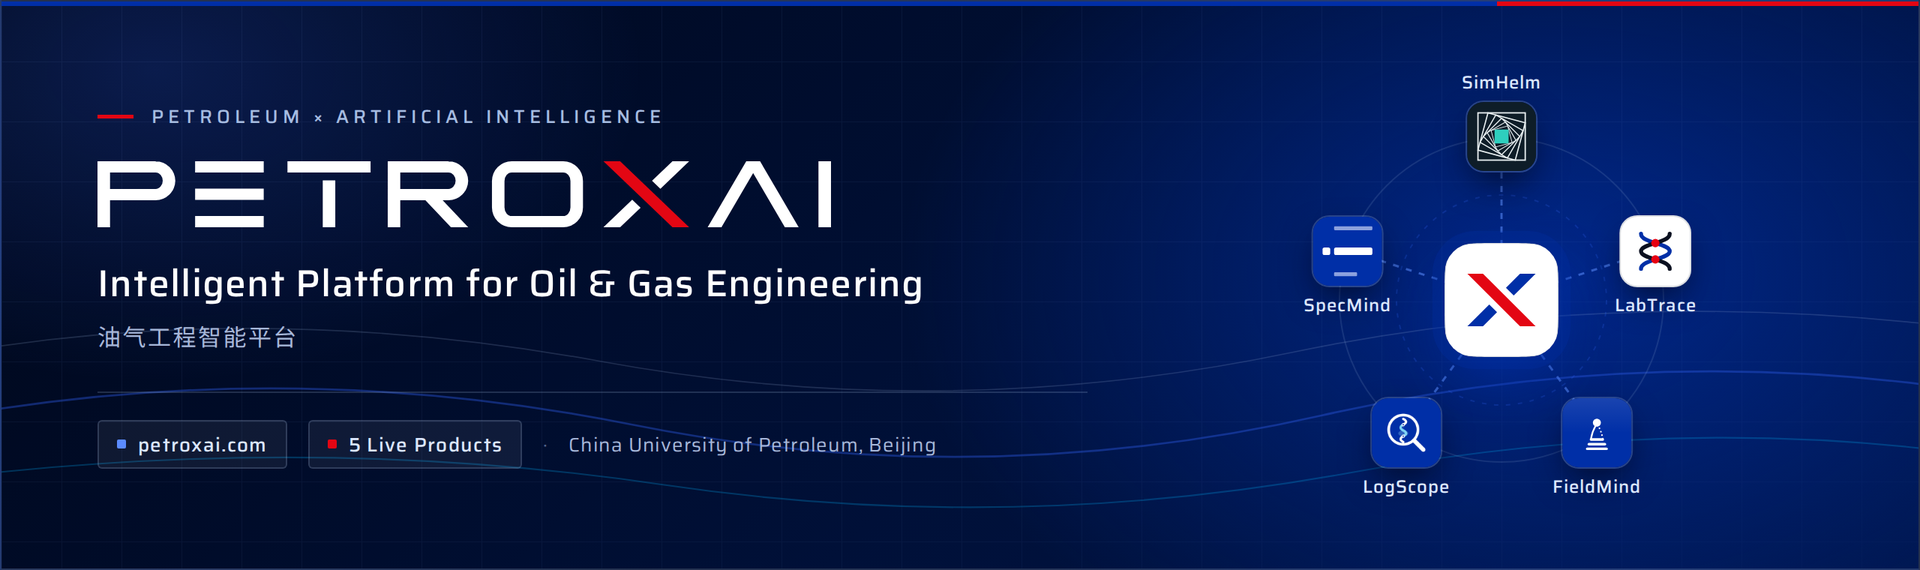
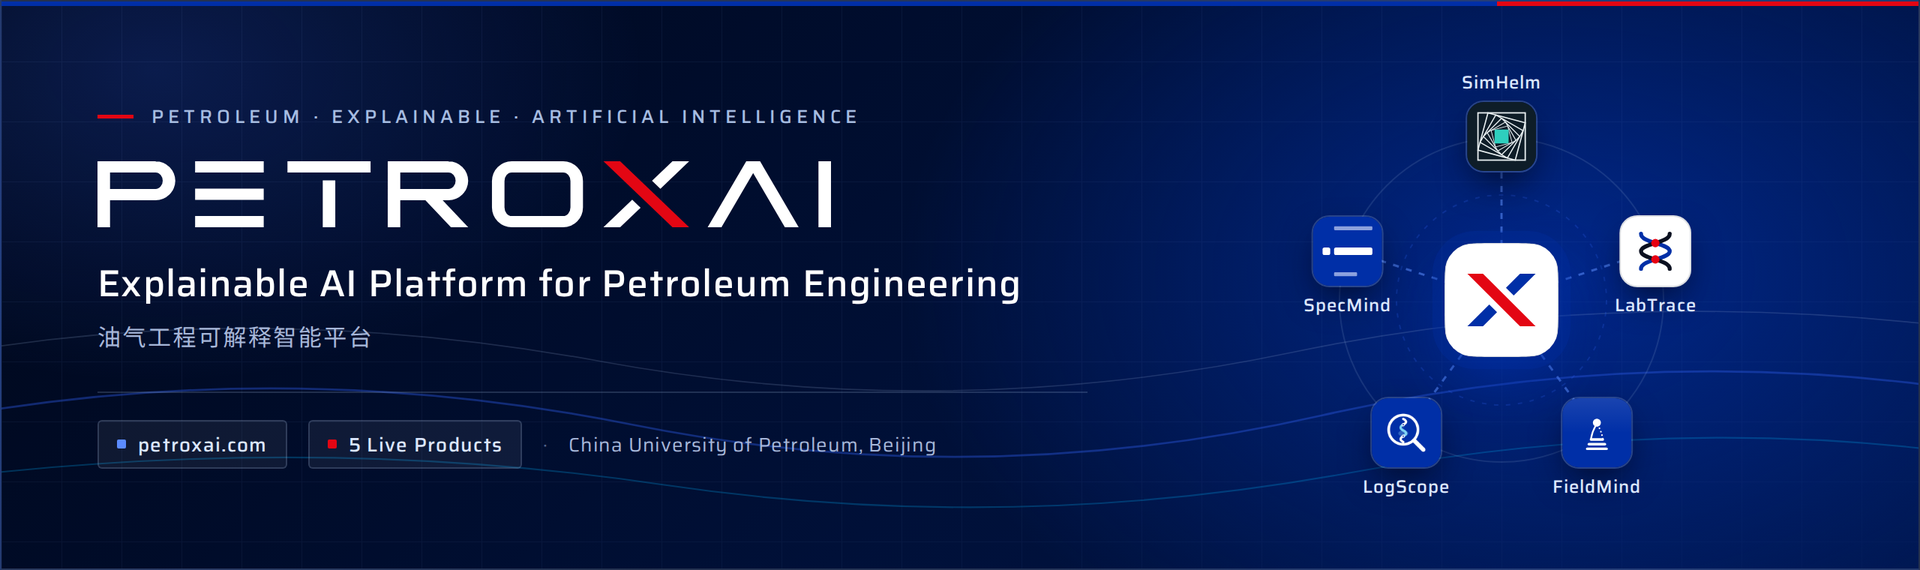
将组织主页定位更新为「油气工程可解释智能平台」
- 更新 profile/README.md 定位为 Explainable AI platform for petroleum engineering · 油气工程可解释智能平台
- 更新 scripts/render_assets.py 标眉与副标题并重绘深/浅双色 Hero Banner
- 验证：重新渲染并目视核对 banner-dark.png 与 banner-light.png

Changed region(s): [[0.0312, 0.4772, 0.5312, 0.5368], [0.1562, 0.1789, 0.4375, 0.2386], [0.0938, 0.5667, 0.1875, 0.6263]]

diff --git a/scripts/render_assets.py b/scripts/render_assets.py
@@ -438,11 +438,11 @@ html, body {{
       <div class="left">
         <div class="kicker">
           <span class="kicker-bar"></span>
-          <span>PETROLEUM × ARTIFICIAL INTELLIGENCE</span>
+          <span>PETROLEUM · EXPLAINABLE · ARTIFICIAL INTELLIGENCE</span>
         </div>
         <img class="wordmark" src="{wordmark_uri}" alt="PetroXAI" />
-        <div class="headline">Intelligent Platform for Oil &amp; Gas Engineering</div>
-        <div class="sub-zh">油气工程智能平台</div>
+        <div class="headline">Explainable AI Platform for Petroleum Engineering</div>
+        <div class="sub-zh">油气工程可解释智能平台</div>
         <div class="meta-row">
           <span class="meta-tag"><span class="meta-dot"></span>petroxai.com</span>
           <span class="meta-tag"><span class="meta-dot red"></span>5 Live Products</span>

diff --git a/profile/README.md b/profile/README.md
@@ -3,7 +3,7 @@
     <picture>
       <source media="(prefers-color-scheme: dark)" srcset="https://raw.githubusercontent.com/PetroXAI/.github/main/profile/assets/banner-dark.png">
       <source media="(prefers-color-scheme: light)" srcset="https://raw.githubusercontent.com/PetroXAI/.github/main/profile/assets/banner-light.png">
-      <img alt="PetroXAI — Intelligent Platform for Oil & Gas Engineering" src="https://raw.githubusercontent.com/PetroXAI/.github/main/profile/assets/banner-dark.png" width="100%">
+      <img alt="PetroXAI — Explainable AI platform for petroleum engineering" src="https://raw.githubusercontent.com/PetroXAI/.github/main/profile/assets/banner-dark.png" width="100%">
     </picture>
   </a>
 </p>
@@ -19,11 +19,11 @@
 
 ## About PetroXAI · 关于我们
 
-**PetroXAI** (**Petro**leum **×** **AI**) is an intelligent platform for oil &amp; gas engineering.
+**PetroXAI** (**Petro**leum · e**X**plainable · **A**rtificial **I**ntelligence) is an explainable AI platform for petroleum engineering.
 
 We combine engineering physics and verifiable domain criteria with AI agents and generative models across five core areas: engineering simulation, research project management, oilfield production operations, well-logging quality control, and engineering standards retrieval. All platform applications share a single unified account at **[petroxai.com](https://petroxai.com)**.
 
-> 油气工程智能平台：结合工程机理、真实数据与人工智能，覆盖工程仿真、科研项目管理、油田生产管理、测井数据治理与工程标准检索。
+> 油气工程可解释智能平台：将经典物理与工程判据同可解释人工智能相结合，覆盖工程仿真、科研项目管理、油田生产管理、测井数据治理与工程标准检索。
 
 ---
 
